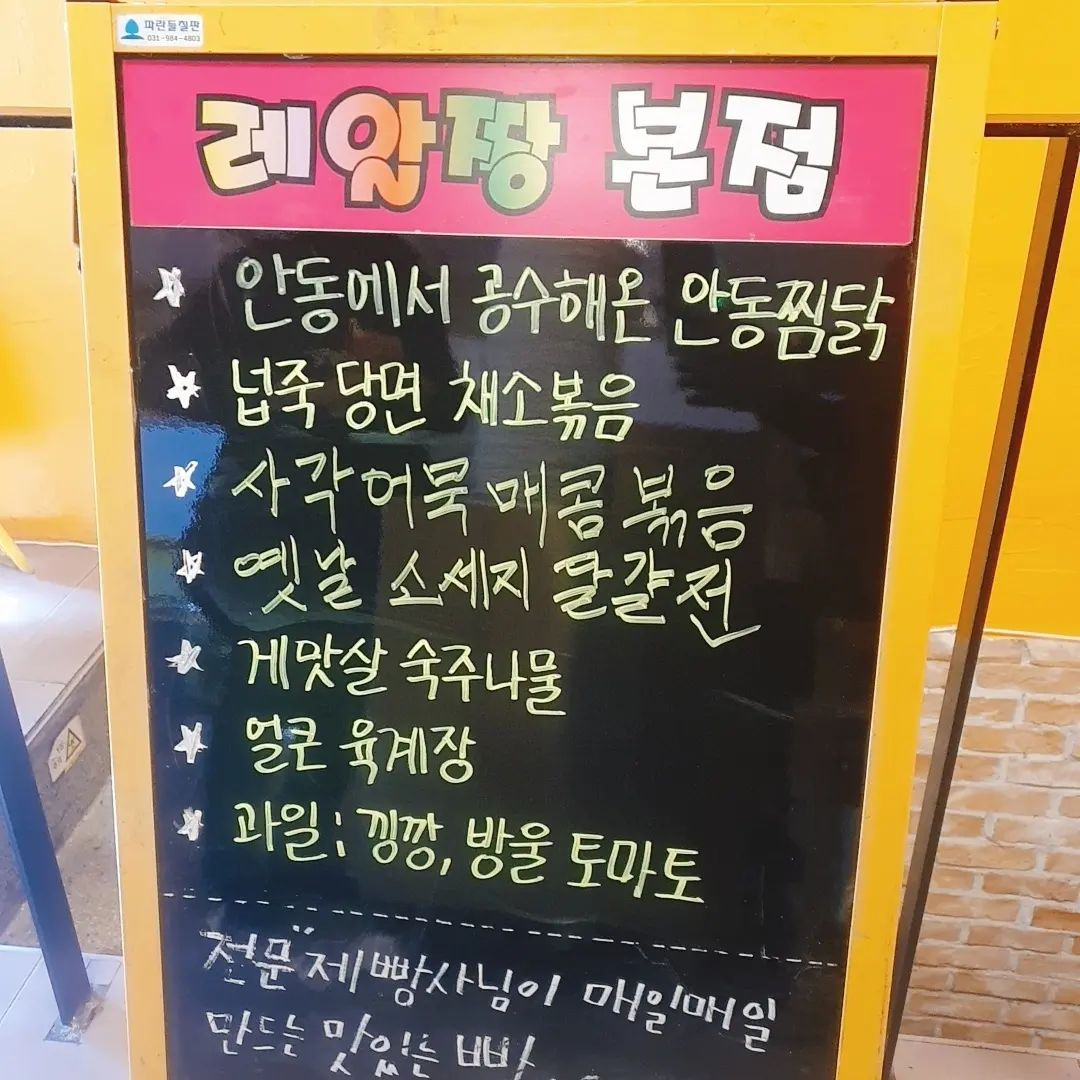
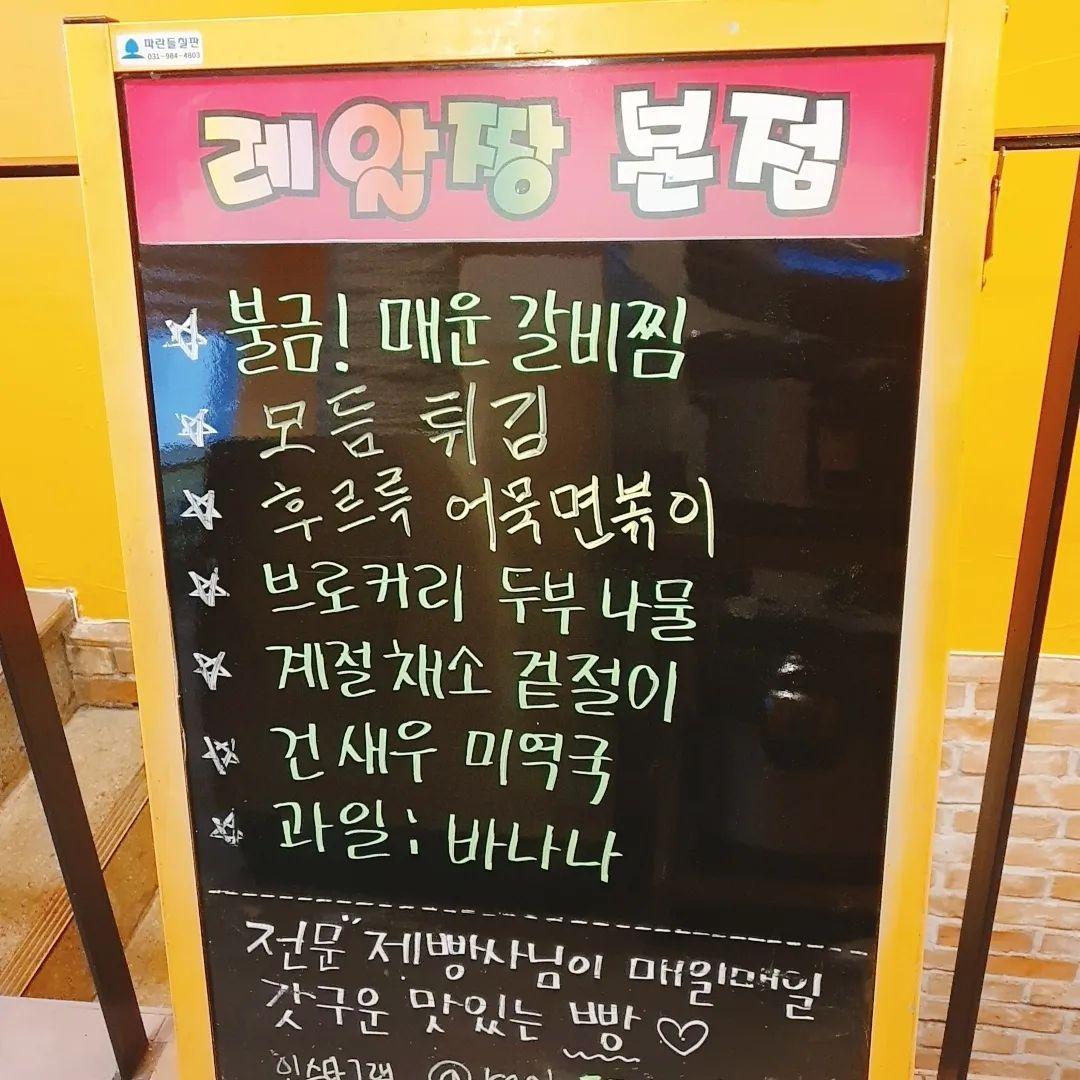
auto push

diff --git a/server/real_1_todaymenu.html b/server/real_1_todaymenu.html
@@ -1,1 +1,1 @@
-<h1 class="_aacl _aaco _aacu _aacx _aad7 _aade">3월&nbsp;3일 금요일 레알짱 본점 점심메뉴입니다. <br><br>- 안동에서 공수해온 안동찜닭 🔥<br>- 넙죽당면 채소볶음❤<br>- 사각어묵 매콤볶음⭐<br>- 옛날 소세지 달걀전<br>- 게맛살 숙주나물<br>- 국 : 얼큰 육계장<br>- 과일 : 낑깡, 방울 토마토<br>- 갓 구운 베이커리 입니다. 🥖🥯🍞<br><br>^^👍 레알짱은 여러분들의 레알짱입니다.!!!👍 <a class="x1i10hfl xjbqb8w x6umtig x1b1mbwd xaqea5y xav7gou x9f619 x1ypdohk xt0psk2 xe8uvvx xdj266r x11i5rnm xat24cr x1mh8g0r xexx8yu x4uap5 x18d9i69 xkhd6sd x16tdsg8 x1hl2dhg xggy1nq x1a2a7pz  _aa9_ _a6hd" href="/explore/tags/%EC%8B%A0%EC%84%A0%ED%95%9C%ED%9B%84%EC%8B%9D/" role="link" tabindex="0"></h1>
+<h1 class="_aacl _aaco _aacu _aacx _aad7 _aade">3월 3일 금요일 레알짱 본점 저녁메뉴입니다. <br><br>- 불금! 매운갈비찜<br>- 모듬 튀김<br>- 후르륵 어묵면볶이<br>- 브로컬리 두부나물<br>- 계절채소겉절이<br>- 건새우미역국<br>- 과일: 바나나<br>- 갓 구운 베이커리 입니다. <br><br>^^ 👍</h1>

diff --git a/server/realtodaymenu.html b/server/realtodaymenu.html
@@ -1,1 +1,1 @@
-<h1 class="_aacl _aaco _aacu _aacx _aad7 _aade">3월 2일 금요일<br>점심메뉴 <br>- 통닭다리치킨<br>- 수제고구마튀김<br>- 메밀비빔국수<br>- 푸실리냉파스타<br>- 콩나물양념장<br>- 모둠어묵탕<br>- 트리플베리 등</h1>
+<h1 class="_aacl _aaco _aacu _aacx _aad7 _aade">3월 2일 금요일<br>저녁메뉴 <br>- 고추장 돼지불백<br>- 쌈 채소&amp;쌈장<br>- 갈릭 크림 파스타<br>- 상추 겉절이<br>- 견과류 멸치볶음<br>- 대파 육계장<br>- 트리플베리&amp;단감<br> 등</h1>

diff --git a/server/smarttodaymenu.html b/server/smarttodaymenu.html
@@ -1,1 +1,1 @@
-<h1 class="_aacl _aaco _aacu _aacx _aad7 _aade">23. 03.03 금 OPEN-1548일차 점심입니다.<br><br></h1>
+<h1 class="_aacl _aaco _aacu _aacx _aad7 _aade">23. 03.03 금  OPEN-1548일차 저녁입니다.<br><br></h1>
